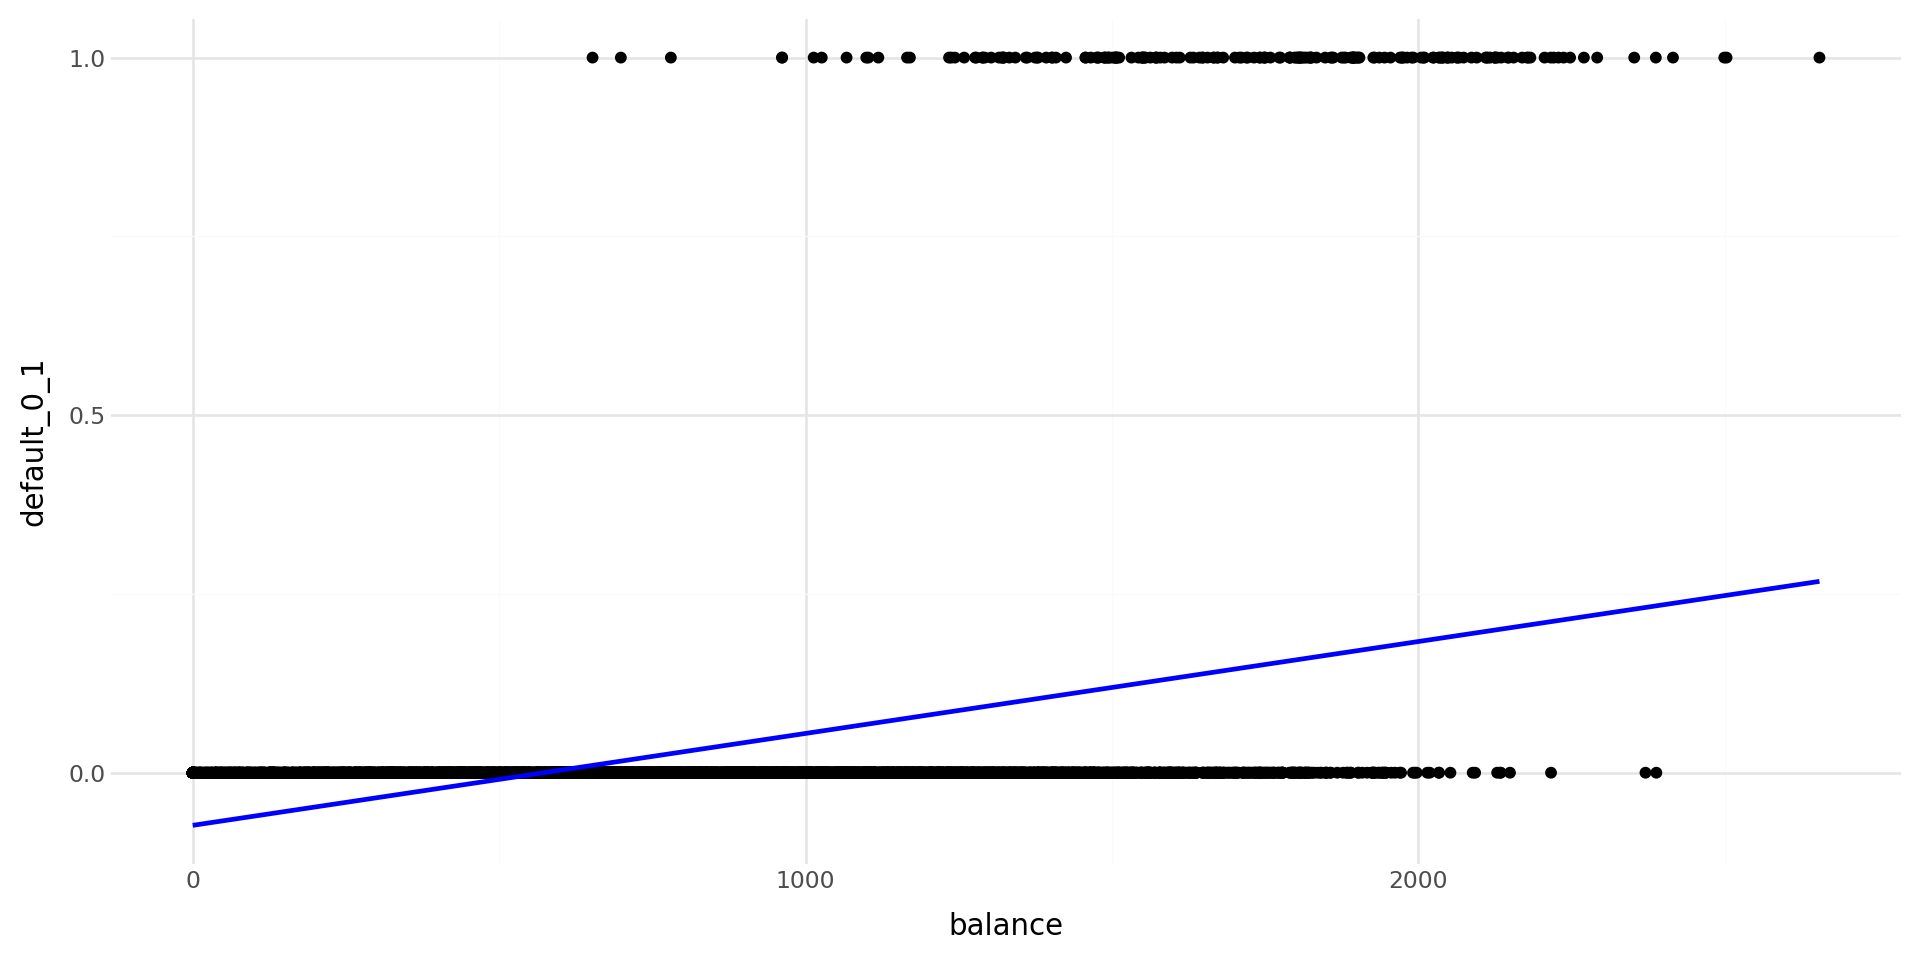
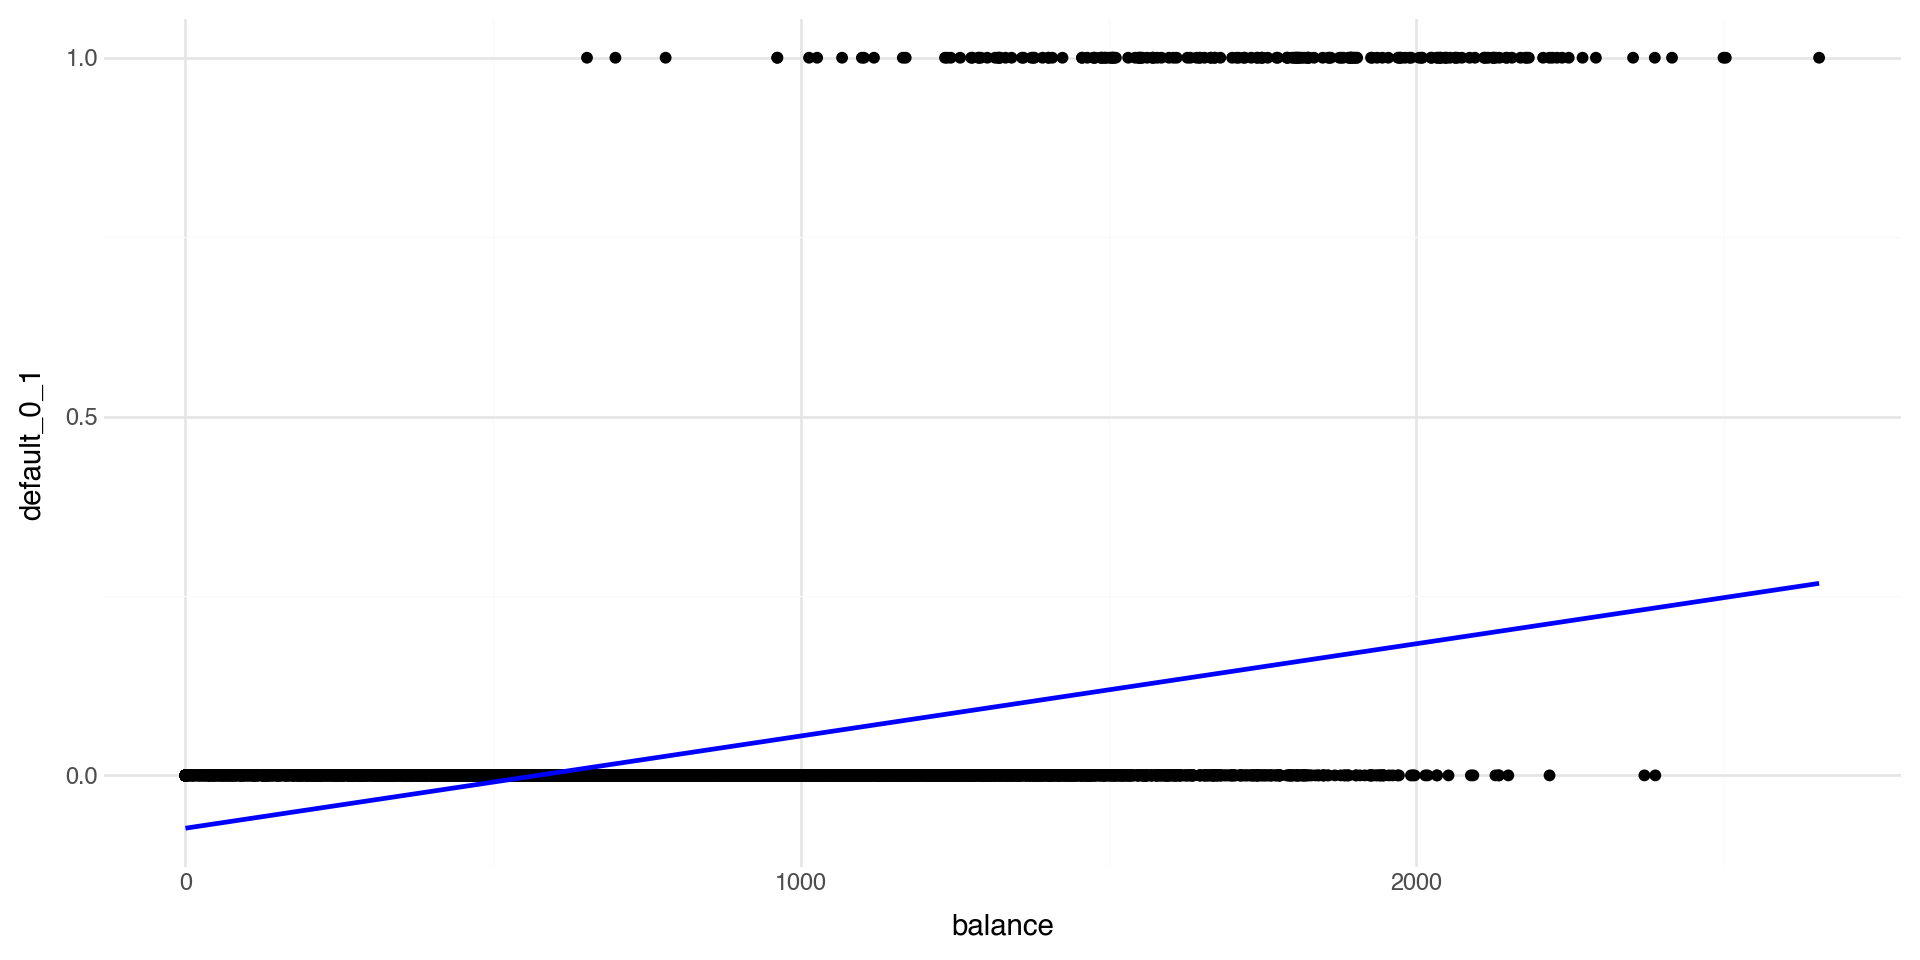
Update lectures 08 and 09, add KNN homework, and sync project context

diff --git a/GEMINI.md b/GEMINI.md
@@ -22,10 +22,11 @@ The root directory constitutes the active Quarto project.
     *   `computing-access.qmd` & `computing-python-resources.qmd`: Computing setup and resources.
     *   `schedule.csv`: Source of truth for the course schedule.
 *   `slides/`: Lecture slides (migrated from archive and converted to Python).
-    *   `00-welcome.qmd`, `01-big-picture.qmd`, `02-StatisticalLearning.qmd`, `03-SLR-Gradient_Desc.qmd`, `04-MultipleRegression.qmd`, `05-knn.qmd`.
-    *   `_metadata.yml`: Shared configuration for all slides.
+    *   `00-welcome.qmd`, `01-big-picture.qmd`, `02-StatisticalLearning.qmd`, `03-SLR-Gradient_Desc.qmd`, `04-MultipleRegression.qmd`, `05-data-splitting.qmd`, `06-knn.qmd`, `07-preprocessing-pipelines.qmd`, `08-classification-logistic.qmd`, `09-classification-metrics.qmd`.
+    *   `_metadata.yml`: Shared configuration for all slides (includes `scrollable: true`).
     *   `images/`: Slide-specific images.
-*   `hw/`: Homework assignments (e.g., `01-hw-eda.qmd`).
+*   `hw/`: Homework assignments.
+    *   `01-hw-eda.qmd`, `02-hw-mlr.qmd`, `03-hw-knn.qmd`.
 *   `data/`: Course datasets (e.g., `house_prices.csv`, `outlets.csv`, `tips.csv`, `AmesHousing.rds`).
 *   `jobs/`: Job application assignments (empty).
 *   `prepare/`: Preparation materials (empty).
